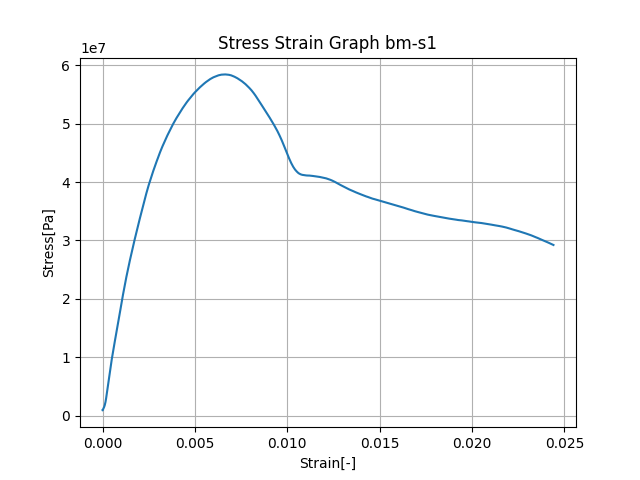
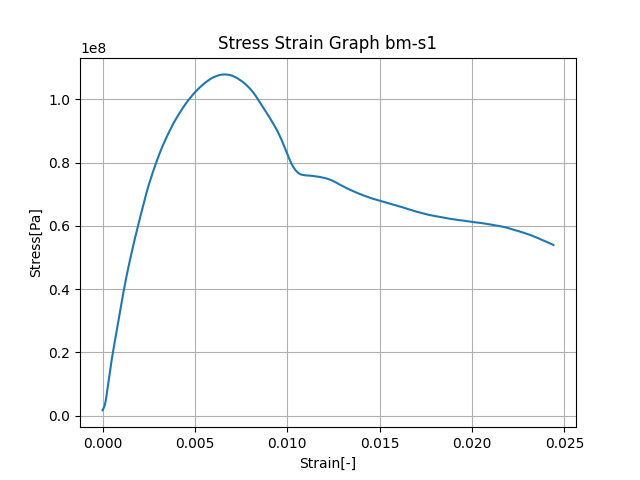
Thickness updates automatically

diff --git a/mainV2.py b/mainV2.py
@@ -20,11 +20,21 @@ for i in range(len(cdeformation)):
 Compliance_funct = interpolate.interp1d(ncforce, ncdeformation, kind='linear', fill_value='extrapolate')
 
 #FILE COMMANDS
-file = 'bm-s4'
+file = 'bm-s2'
 file2 = 'Data\Compressive\\' + file + '.csv'
 
+thickness_lst = [2.65, 2.73, 2.56, 2.71, 2.3, 2.69, 2.71, 2.37, 2.36, 2.34]#to be updated if more samples are added
+if file[0] == 'b':
+  t = thickness_lst[int(file[-1])-1]
+elif file[0] == 'n':
+  t = thickness_lst[int(file[-1])+3]
+else:
+  t = 2
+  print('Thickness error')
+
+
 #NORMALIZING THE DATA WITH COMPLIANCE
-A = 0.015*0.005 #m^2 change the 0.005 depending on the sample
+A = 0.015*t#m^2 change the 0.005 depending on the sample
 original_l = 0.14 #m
 stress = []
 strain = []
